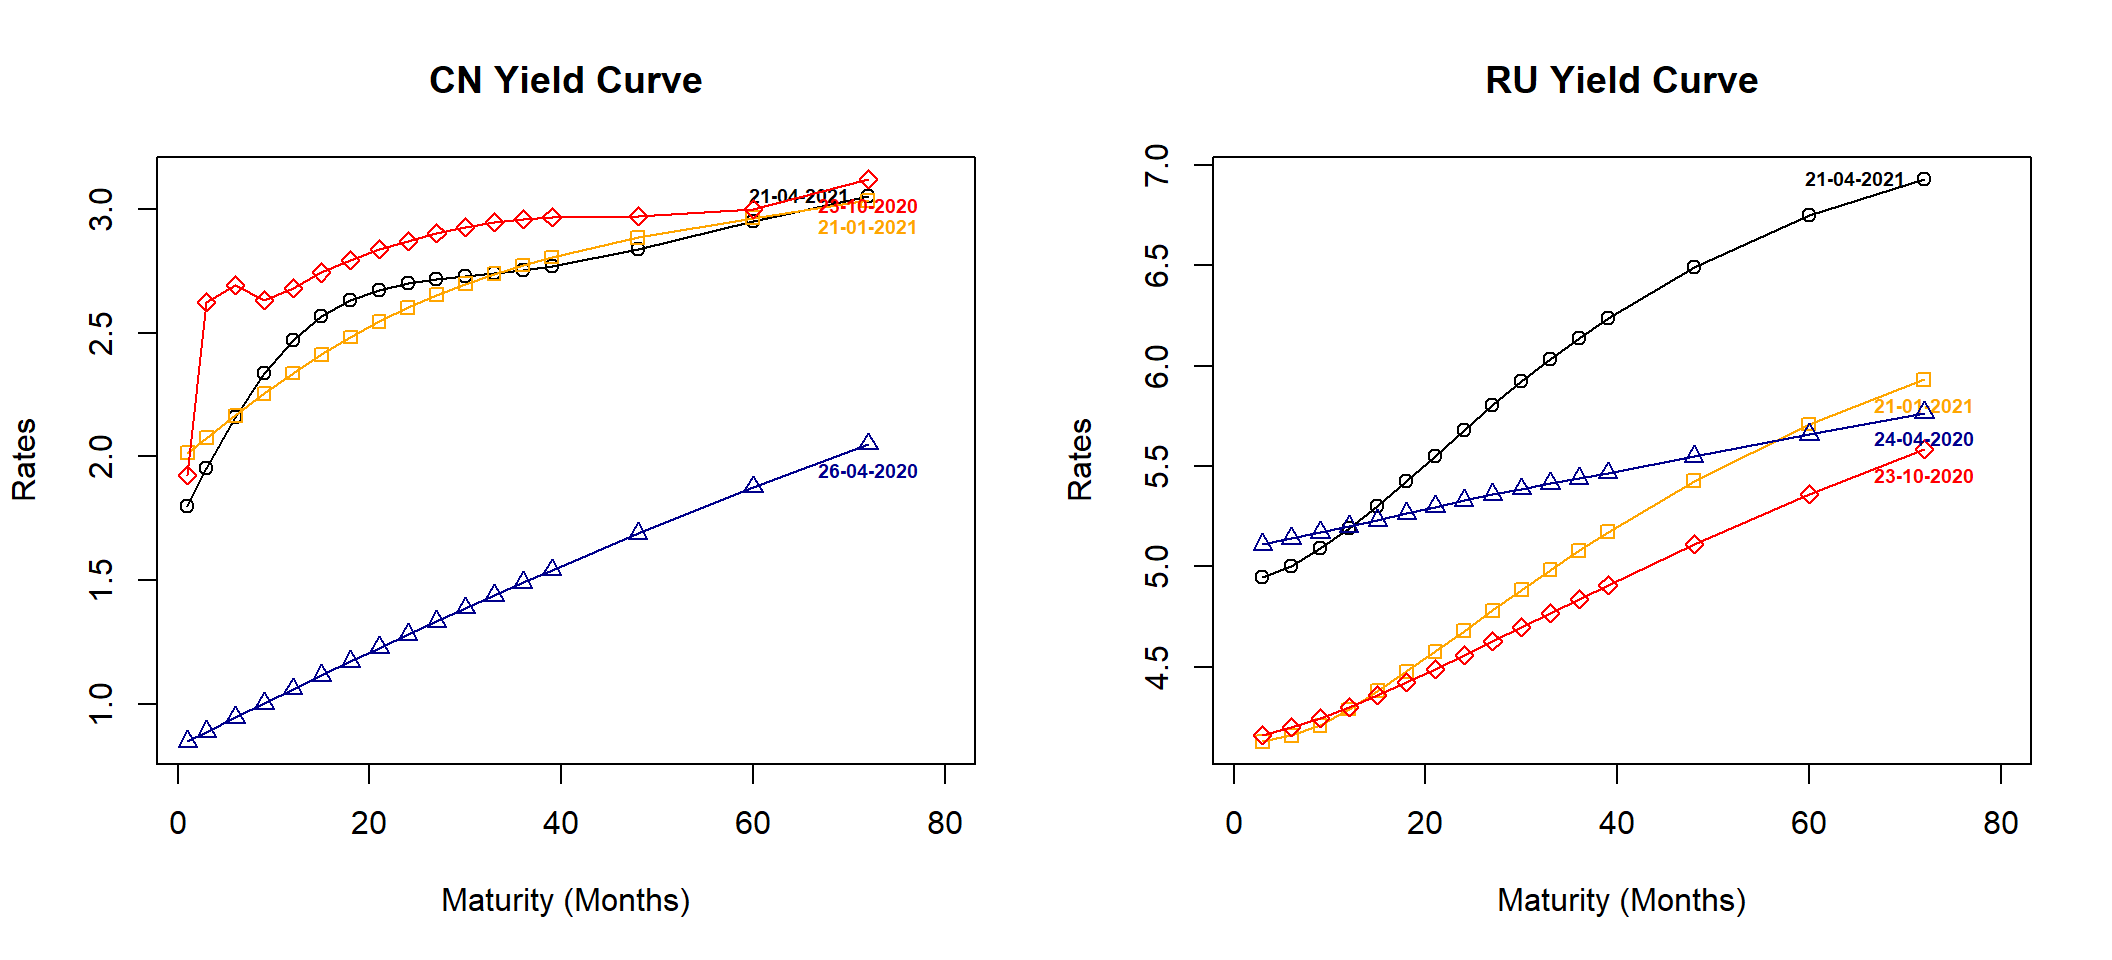
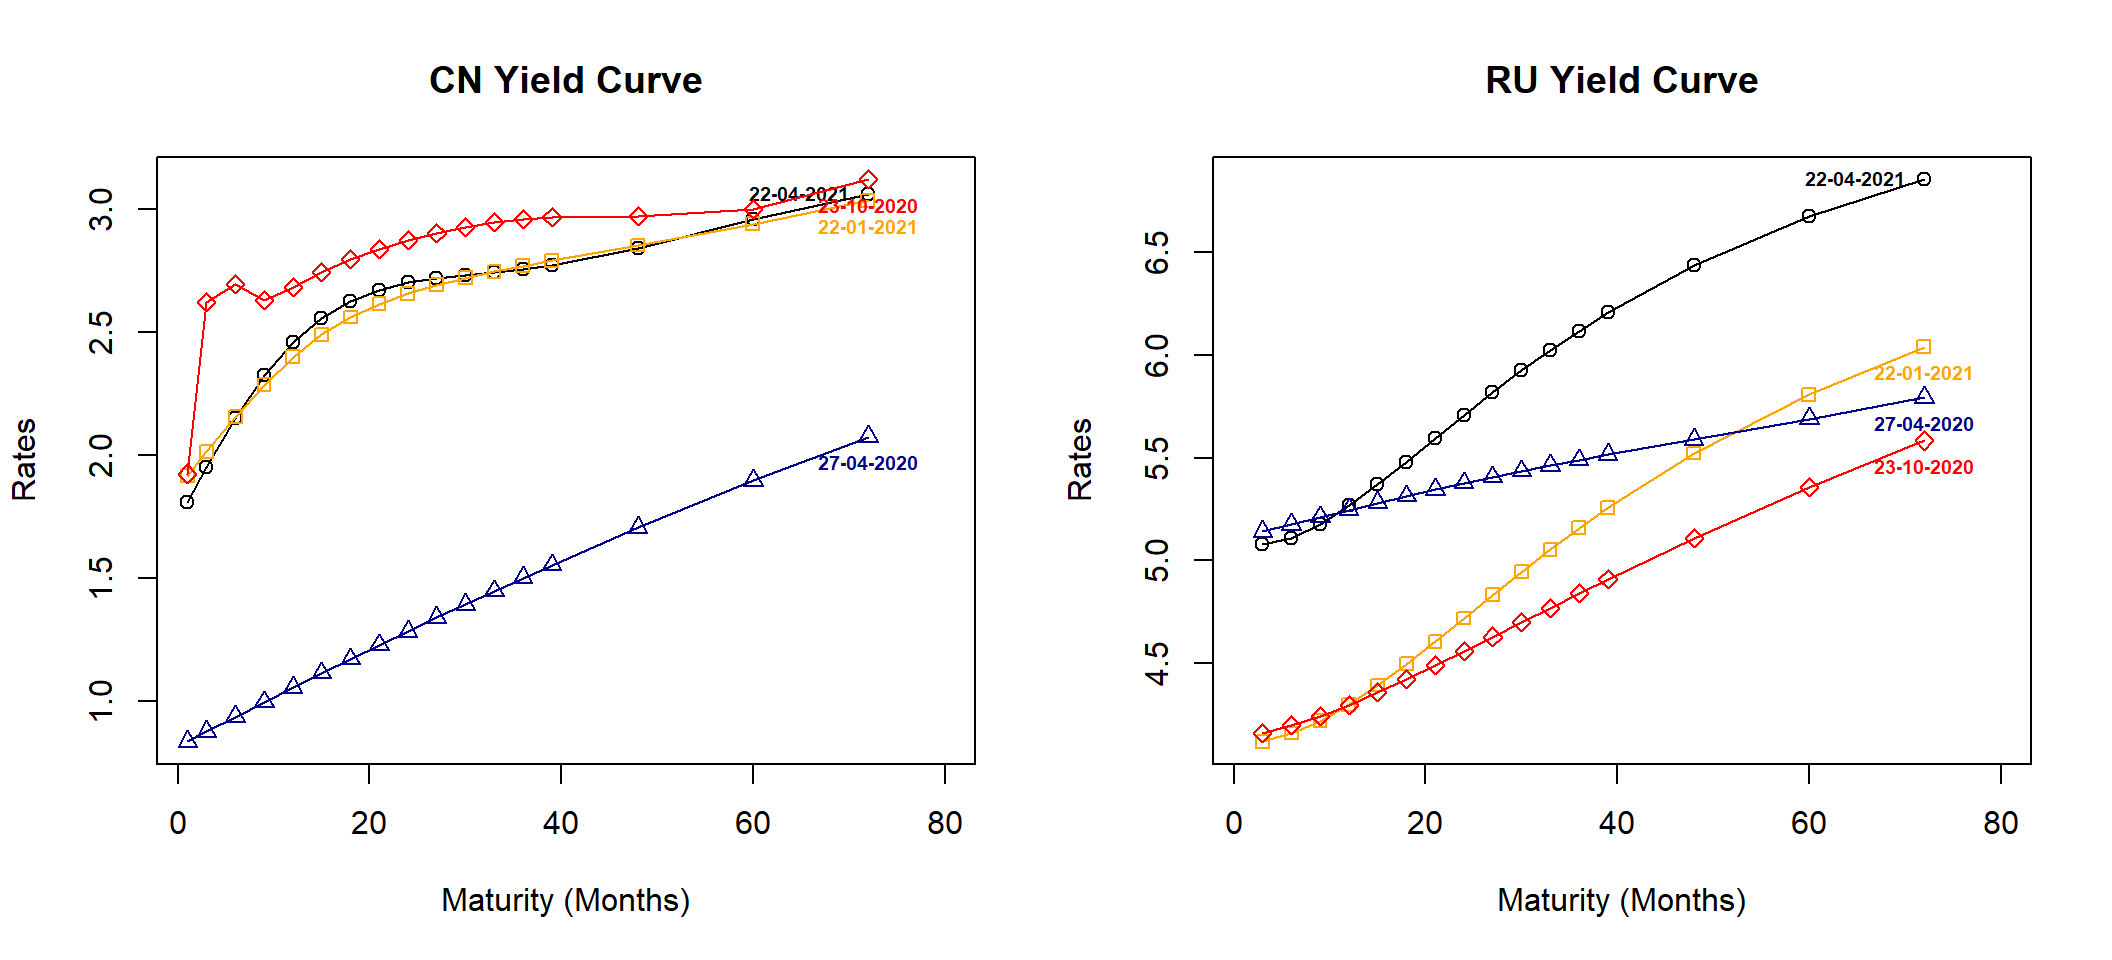
Add files via upload

diff --git a/index.html b/index.html
@@ -288,11 +288,12 @@ $(document).ready(function () {
 
 
 <h1 class="title toc-ignore">Yield Curves of BR, US, CN, and RU</h1>
-<h4 class="date">21/04/2021</h4>
+<h4 class="date">22/04/2021</h4>
 
 </div>
 
 
+<p>The figures below present the yield curves of Brazil, the US, China, and Russia for four different dates. A yield curve is a line that plots yields (interest rates) of bonds having equal credit quality but differing maturity dates. The slope of the yield curve gives an idea of future interest rate changes and economic activity (<a href="https://www.investopedia.com/terms/y/yieldcurve.asp">more details</a>).</p>
 <p>Recommended R packages:</p>
 <p><a href="https://cran.r-project.org/web/packages/GBcurves/index.html">+ GBcurves (BR, CN, and RU)</a></p>
 <p><a href="https://cran.r-project.org/web/packages/fredr/index.html">+ fredr (US)</a></p>
